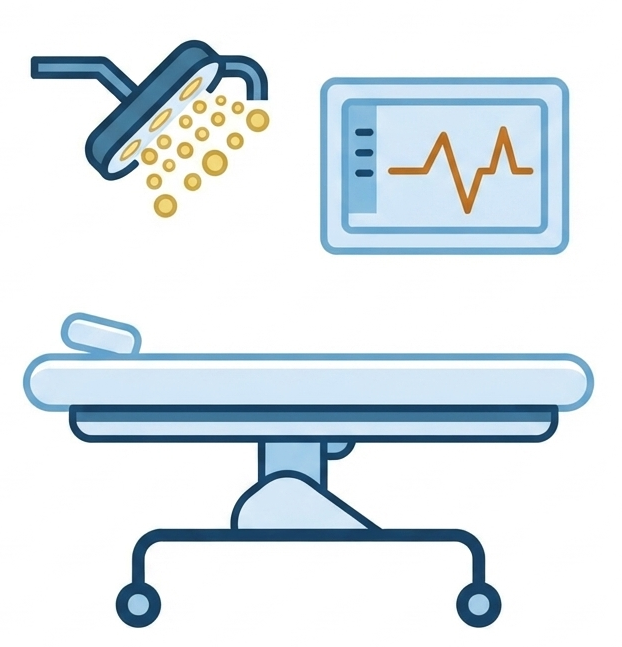
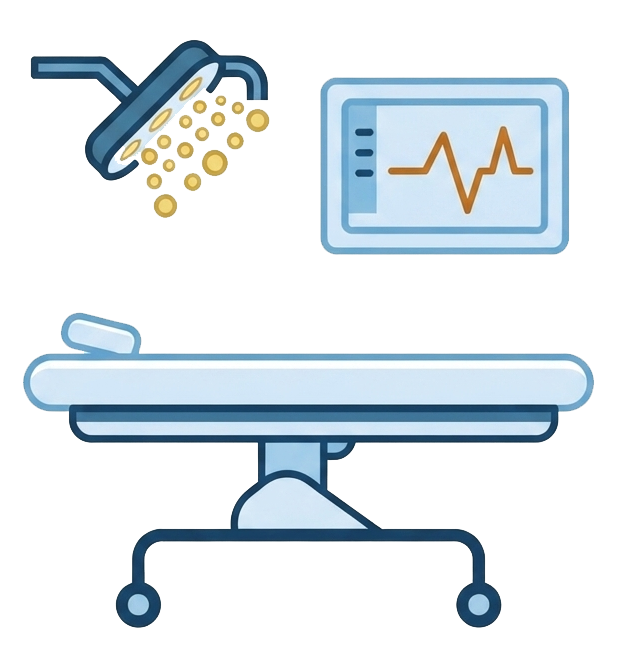
about page completed

Changed region(s): [[0.1833, 0.1236, 0.4277, 0.34], [0.0916, 0.5255, 0.1222, 0.5564]]

diff --git a/src/components/about/ManagementSection.tsx b/src/components/about/ManagementSection.tsx
@@ -1,0 +1,128 @@
+'use client'
+
+import { motion } from 'framer-motion'
+import { managers } from '@/data/managers'
+import FloatingIcon from '@/components/ui/FloatingIcon'
+
+const SIZE = 300
+const C = SIZE / 2
+const VERTEX = [0, 60, 120, 180, 240, 300]
+
+const roundedHex = (r: number, corner: number, rot = 0) => {
+  const pts = VERTEX.map((a) => {
+    const rad = ((a + rot) * Math.PI) / 180
+    return [C + r * Math.cos(rad), C + r * Math.sin(rad)]
+  })
+  const t = corner / r
+  const lerp = (a: number[], b: number[]) => [
+    a[0] + (b[0] - a[0]) * t,
+    a[1] + (b[1] - a[1]) * t,
+  ]
+  let d = ''
+  pts.forEach((p, i) => {
+    const prev = pts[(i + 5) % 6]
+    const next = pts[(i + 1) % 6]
+    const s = lerp(p, prev)
+    const e = lerp(p, next)
+    d += `${i === 0 ? 'M' : 'L'}${s[0].toFixed(2)},${s[1].toFixed(2)} Q${p[0].toFixed(2)},${p[1].toFixed(2)} ${e[0].toFixed(2)},${e[1].toFixed(2)} `
+  })
+  return d + 'Z'
+}
+
+function ManagerCard({ manager }: { manager: (typeof managers)[number] }) {
+  return (
+    <motion.div
+      initial={{ opacity: 0, y: 20 }}
+      whileInView={{ opacity: 1, y: 0 }}
+      viewport={{ once: true }}
+      transition={{ duration: 0.5 }}
+      className="w-full max-w-[340px]"
+    >
+      <div className="group bg-white rounded-3xl border-2 border-[#b8cfdb] px-5 pt-8 pb-8 sm:px-8 text-center cursor-pointer transition-all duration-300 hover:-translate-y-2 hover:border-transparent hover:shadow-[0_15px_40px_rgba(0,0,0,0.12)]">
+        <div className="relative w-full max-w-[260px] aspect-square mx-auto mb-4">
+          <svg
+            viewBox={`0 0 ${SIZE} ${SIZE}`}
+            width="100%"
+            height="100%"
+            className="absolute inset-0"
+            fill="none"
+          >
+            <path
+              d={roundedHex(135, 42, -4)}
+              strokeWidth="3"
+              className="stroke-[#d5e0e6] group-hover:stroke-blue-900 transition-colors duration-300"
+            />
+            <path
+              d={roundedHex(102, 34, 8)}
+              strokeWidth="3"
+              className="stroke-[#f7ecd3] group-hover:stroke-amber-400 transition-colors duration-300"
+            />
+          </svg>
+
+          <div className="absolute left-1/2 top-1/2 -translate-x-1/2 -translate-y-1/2 w-[52%] h-[52%] overflow-hidden rounded-b-[2.5rem]">
+            <img
+              src={manager.image}
+              alt={manager.name}
+              className="w-full h-full object-cover object-top"
+            />
+          </div>
+        </div>
+
+        <h4 className="font-bold text-blue-900 text-lg sm:text-xl">{manager.name}</h4>
+        <p className="text-amber-500 text-xs sm:text-sm uppercase mt-2 mb-8">{manager.role}</p>
+      </div>
+    </motion.div>
+  )
+}
+
+export default function ManagementSection() {
+  const [head, ...rest] = managers
+
+  return (
+    <section className="relative bg-white py-14 md:py-20 px-4 sm:px-6 md:px-12 overflow-hidden">
+      <FloatingIcon
+        src="/images/goldenWinged.png"
+        animation="float"
+        duration={2.6}
+        distance={14}
+        className="hidden lg:block absolute left-[0%] top-1/2 w-8 h-auto object-contain"
+      />
+      <FloatingIcon
+        src="/images/astrature.png"
+        animation="sway"
+        duration={2.5}
+        distance={12}
+        className="hidden lg:block absolute right-[4%] top-1/2 w-10 h-10 object-contain"
+      />
+      <h2 className="text-center text-blue-900 font-extrabold text-[1.8rem] sm:text-[2.2rem] md:text-[2.6rem] mb-14">
+        Meet Our Management
+      </h2>
+
+      <div className="max-w-[1200px] mx-auto flex flex-col items-center gap-10 md:gap-12">
+        <div className="relative w-full flex justify-center">
+          <FloatingIcon
+            src="/images/bedSun.PNG"
+            animation="float"
+            duration={2.5}
+            distance={10}
+            className="hidden md:block absolute left-[0%] lg:left-[18%] top-1/2 w-10 h-10 object-contain"
+          />
+          <ManagerCard manager={head} />
+          <FloatingIcon
+            src="/images/pad.png"
+            animation="sway"
+            duration={2.5}
+            distance={12}
+            className="hidden md:block absolute right-[8%] lg:right-[18%] top-1/2 w-10 h-10 object-contain"
+          />
+        </div>
+
+        <div className="w-full grid grid-cols-1 sm:grid-cols-2 lg:grid-cols-3 gap-10 md:gap-12 justify-items-center">
+          {rest.map((m) => (
+            <ManagerCard key={m.id} manager={m} />
+          ))}
+        </div>
+      </div>
+    </section>
+  )
+}

diff --git a/src/components/about/AboutHero.tsx b/src/components/about/AboutHero.tsx
@@ -1,0 +1,68 @@
+'use client'
+
+import Link from 'next/link'
+import { motion } from 'framer-motion'
+import { HEADER_HEIGHT } from '@/components/layout/Header'
+import FloatingIcon from '@/components/ui/FloatingIcon'
+import { Home } from 'lucide-react'
+
+export default function AboutHero() {
+  return (
+    <section
+      className="relative z-[1] overflow-hidden bg-[#f8fafc]"
+       style={{
+        marginTop: -HEADER_HEIGHT,
+        paddingTop: HEADER_HEIGHT,
+        paddingBottom: 40,
+      }}
+    >
+      <img
+        src="/images/abouthero.png"
+        alt=""
+        className="absolute left-0 top-0 w-full h-full object-cover z-0 pointer-events-none"
+      />
+
+    <motion.img
+        src="/images/anbulance.png"
+        alt=""
+        initial={{ x: 250 }}
+        animate={{ x: 100 }}
+        transition={{ duration: 2.4, repeat: Infinity, repeatType: 'mirror', ease: 'linear' }}
+        className="hidden md:block absolute bottom-6 left-[28%] w-16 h-auto z-[3]"
+      />
+      <FloatingIcon
+        src="/images/hartAndPlus.png"
+        animation="spin"
+        duration={8}
+        className="hidden md:block absolute right-[8%] top-[35%] w-10 h-10 object-contain z-[2]"
+      />
+      <FloatingIcon
+        src="/images/bag.PNG"
+        animation="float"
+        duration={2.5}
+        distance={10}
+        className="hidden md:block absolute left-[3%] top-[25%] w-5 h-5 object-contain z-[2]"
+      />
+
+      <motion.div
+        initial={{ opacity: 0, y: -20 }}
+        animate={{ opacity: 1, y: 0 }}
+        transition={{ duration: 0.7 }}
+        className="relative z-[2] text-center pt-10 pb-14 px-4 min-h-[220px] sm:min-h-[260px] md:min-h-[300px] flex flex-col items-center justify-center"
+      >
+        <h1 className="text-blue-900 font-extrabold text-[2.2rem] sm:text-[2.8rem] md:text-[3.4rem]">
+          About Us
+        </h1>
+
+        <div className="inline-flex items-center gap-2.5 mt-4 bg-blue-900 text-white text-sm font-semibold px-7 py-3 rounded-xl shadow-[0_8px_20px_rgba(30,58,138,0.25)]">
+          <Link href="/" className="flex items-center gap-1.5 hover:text-amber-300 transition">
+            <Home size={24} />
+            Home
+          </Link>
+          <span className="text-white/50">/</span>
+          <span>About Us</span>
+        </div>
+      </motion.div>
+    </section>
+  )
+}

diff --git a/src/components/home/AboutSection.tsx b/src/components/home/AboutSection.tsx
@@ -5,7 +5,17 @@ import FloatingIcon from '@/components/ui/FloatingIcon'
 import FeatureCard from '@/components/ui/FeatureCard'
 import { features } from '@/data/features'
 
-export default function AboutSection() {
+const DEFAULT_IMAGES: [string, string, string] = [
+  'https://images.unsplash.com/photo-1579684385127-1ef15d508118?q=80&w=400&auto=format&fit=crop',
+  'https://images.unsplash.com/photo-1579684385127-1ef15d508118?q=80&w=400&auto=format&fit=crop',
+  'https://images.unsplash.com/photo-1579684385127-1ef15d508118?q=80&w=400&auto=format&fit=crop',
+]
+
+interface AboutSectionProps {
+  images?: [string, string, string]
+}
+
+export default function AboutSection({ images = DEFAULT_IMAGES }: AboutSectionProps) {
   return (
     <section className="bg-white py-10 md:py-16 px-4 sm:px-6 md:px-12 overflow-hidden">
       <div className="max-w-[1300px] mx-auto grid md:grid-cols-2 gap-12 items-start">        
@@ -24,17 +34,17 @@ export default function AboutSection() {
           className="absolute -left-8 top-20 w-14 h-14 object-contain z-20"
         />
         <img
-          src="https://images.unsplash.com/photo-1579684385127-1ef15d508118?q=80&w=400&auto=format&fit=crop"
+          src={images[0]}
           alt="Doctors reviewing a patient chart"
           className="rounded-tl-none rounded-tr-[4.0rem] rounded-bl-[4.0rem] rounded-br-[4.0rem] w-full h-[150px] sm:h-[200px] md:h-[250px] object-cover self-end"
         />
         <img
-          src="https://images.unsplash.com/photo-1579684385127-1ef15d508118?q=80&w=400&auto=format&fit=crop"
+          src={images[1]}
           alt="Doctor examining a patient"
           className="rounded-tl-[4.0rem] rounded-tr-none rounded-bl-[4.0rem] rounded-br-[4.0rem] w-full h-[180px] sm:h-[230px] md:h-[300px] object-cover"
         />
         <img
-          src="https://images.unsplash.com/photo-1579684385127-1ef15d508118?q=80&w=400&auto=format&fit=crop"
+          src={images[2]}
           alt="Eye examination at the hospital"
           className="rounded-tl-[4.0rem] rounded-tr-[4.0rem] rounded-bl-none rounded-br-[4.0rem] w-full h-[150px] sm:h-[200px] md:h-[250px] object-cover"
         />

diff --git a/src/components/about/StatsSection.tsx b/src/components/about/StatsSection.tsx
@@ -1,0 +1,37 @@
+'use client'
+
+import { motion } from 'framer-motion'
+import { stats } from '@/data/stats'
+
+export default function StatsSection() {
+  return (
+    <section className="bg-slate-200 py-10 md:py-16 px-4 sm:px-6 md:px-12">
+      <div className="max-w-[1200px] mx-auto grid grid-cols-1 md:grid-cols-2 lg:grid-cols-4 gap-x-5 gap-y-8 md:gap-x-8 md:gap-y-10 lg:gap-10 pt-2 pl-2 sm:pt-3 sm:pl-3">
+        {stats.map((s, i) => (
+          <motion.div
+            key={s.id}
+            initial={{ opacity: 0, y: 20 }}
+            whileInView={{ opacity: 1, y: 0 }}
+            viewport={{ once: true }}
+            transition={{ duration: 0.5, delay: i * 0.1 }}
+            className="group relative isolate cursor-pointer"
+          >
+            <div className="absolute -top-2 -left-2 right-2 bottom-2 sm:-top-3 sm:-left-3 sm:right-3 sm:bottom-3 rounded-2xl sm:rounded-3xl border-2 border-indigo-500 z-0" />
+
+            <div className="relative z-10 h-full min-h-[150px] sm:min-h-[190px] lg:min-h-[210px] flex flex-col items-center justify-center bg-white group-hover:bg-blue-900 transition-colors duration-300 rounded-2xl sm:rounded-3xl text-center py-6 sm:py-8 lg:py-10 px-3 sm:px-4">
+              <p className="text-amber-500 group-hover:text-white transition-colors duration-300 font-extrabold leading-none text-[2.4rem] sm:text-5xl lg:text-6xl">
+                {s.value}
+              </p>
+              <h4 className="text-blue-900 group-hover:text-white transition-colors duration-300 font-bold text-base sm:text-xl mt-3 sm:mt-4 break-words">
+                {s.title}
+              </h4>
+              <p className="text-slate-600 group-hover:text-white transition-colors duration-300 text-xs sm:text-sm mt-1">
+                {s.subtitle}
+              </p>
+            </div>
+          </motion.div>
+        ))}
+      </div>
+    </section>
+  )
+}

diff --git a/src/data/managers.ts b/src/data/managers.ts
@@ -1,0 +1,15 @@
+export interface Manager {
+  id: string
+  name: string
+  role: string
+  image: string
+}
+
+export const managers: Manager[] = [
+  { id: '1', name: 'Dr Aamir Halim', role: 'Medical Director', image: '/images/Medical.png' },
+  { id: '2', name: 'Mr Khizar Hayat', role: 'Chief Finance & Business Development', image: '/images/Medical.png' },
+  { id: '3', name: 'Mr Rizwan Shafique', role: 'Chief Technology Officer', image: '/images/Medical.png' },
+  { id: '4', name: 'Mr Muhammad Asim Zia', role: 'Chief HR Officer', image: '/images/Medical.png' },
+  { id: '5', name: 'Mr Muhammad Qasim Bajwa', role: 'Chief Admin & Security', image: '/images/Medical.png' },
+  { id: '6', name: 'Mr Umer Amjad', role: 'Chief Quality Officer', image: '/images/Medical.png' },
+]

diff --git a/src/app/about/page.tsx b/src/app/about/page.tsx
@@ -1,0 +1,21 @@
+import AboutHero from '@/components/about/AboutHero'
+import AboutSection from '@/components/home/AboutSection'
+import StatsSection from '@/components/about/StatsSection'
+import ManagementSection from '@/components/about/ManagementSection'
+
+const ABOUT_IMAGES: [string, string, string] = [
+  '/images/logoImage.png',
+  '/images/logoImage.png',
+  '/images/logoImage.png',
+]
+
+export default function AboutPage() {
+  return (
+    <>
+      <AboutHero />
+      <AboutSection images={ABOUT_IMAGES} />
+      <StatsSection />
+      <ManagementSection />
+    </>
+  )
+}

diff --git a/src/data/stats.ts b/src/data/stats.ts
@@ -1,0 +1,13 @@
+export interface Stat {
+  id: string
+  value: string
+  title: string
+  subtitle: string
+}
+
+export const stats: Stat[] = [
+  { id: '1', value: '06+', title: 'Years', subtitle: 'of Trusted Care' },
+  { id: '2', value: '20+', title: 'Specialities', subtitle: 'Advanced Treatment' },
+  { id: '3', value: '100+', title: 'Consultants/Specialists', subtitle: 'Specialists at your Service' },
+  { id: '4', value: '10K+', title: 'Satisfied Patients', subtitle: 'Providing Quality Care' },
+]
